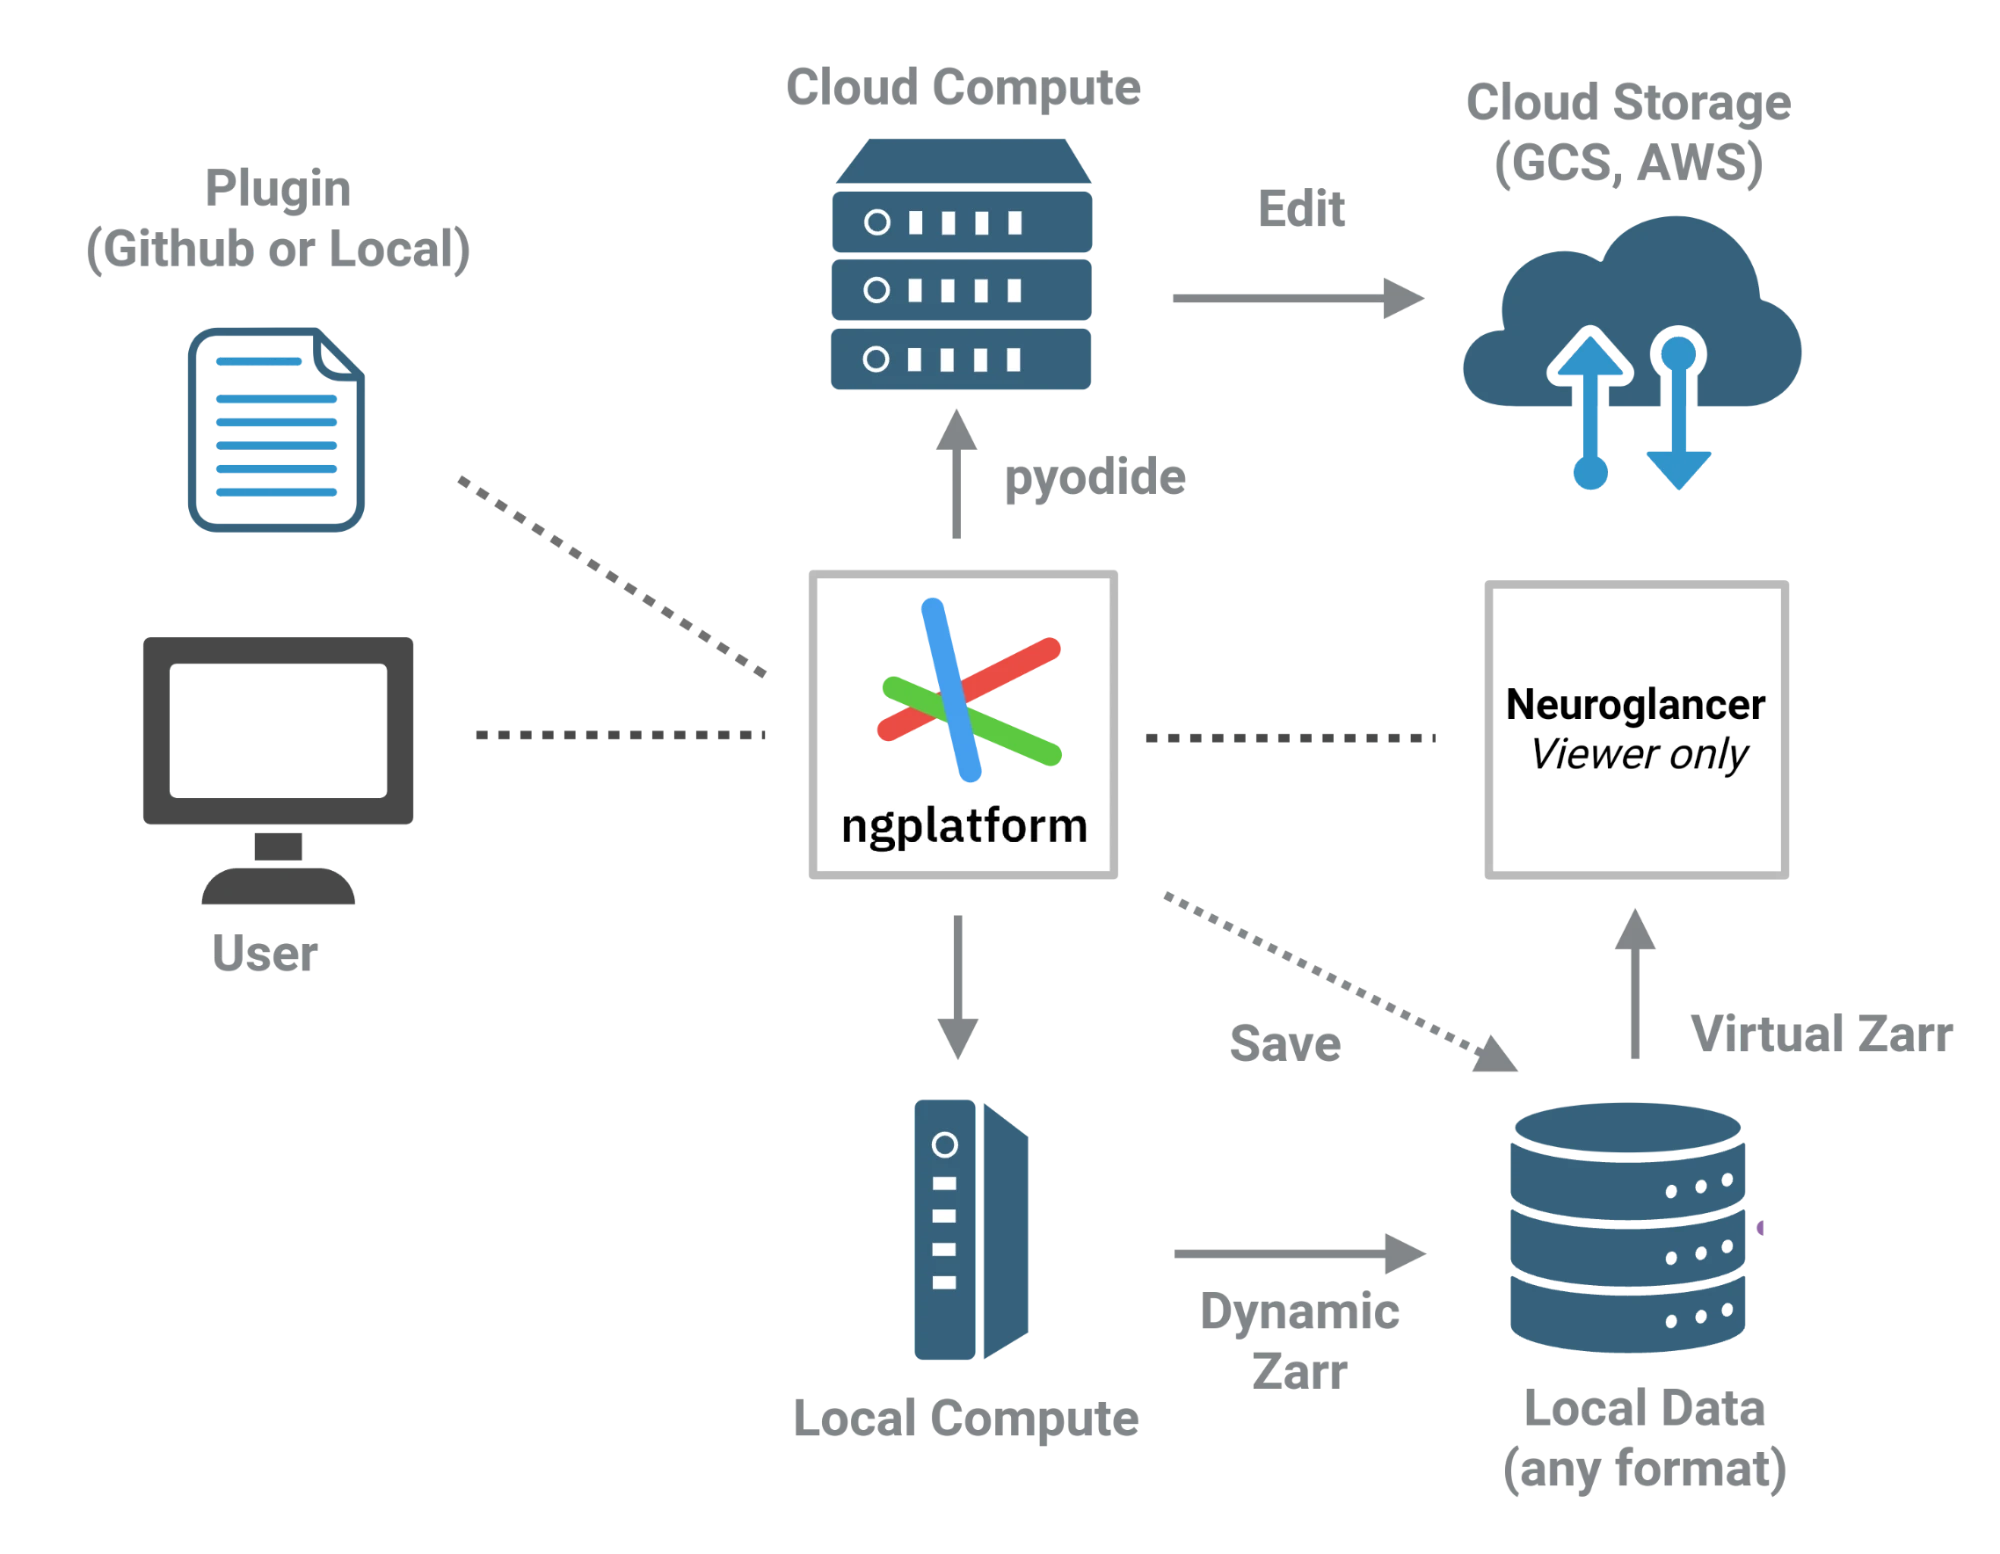
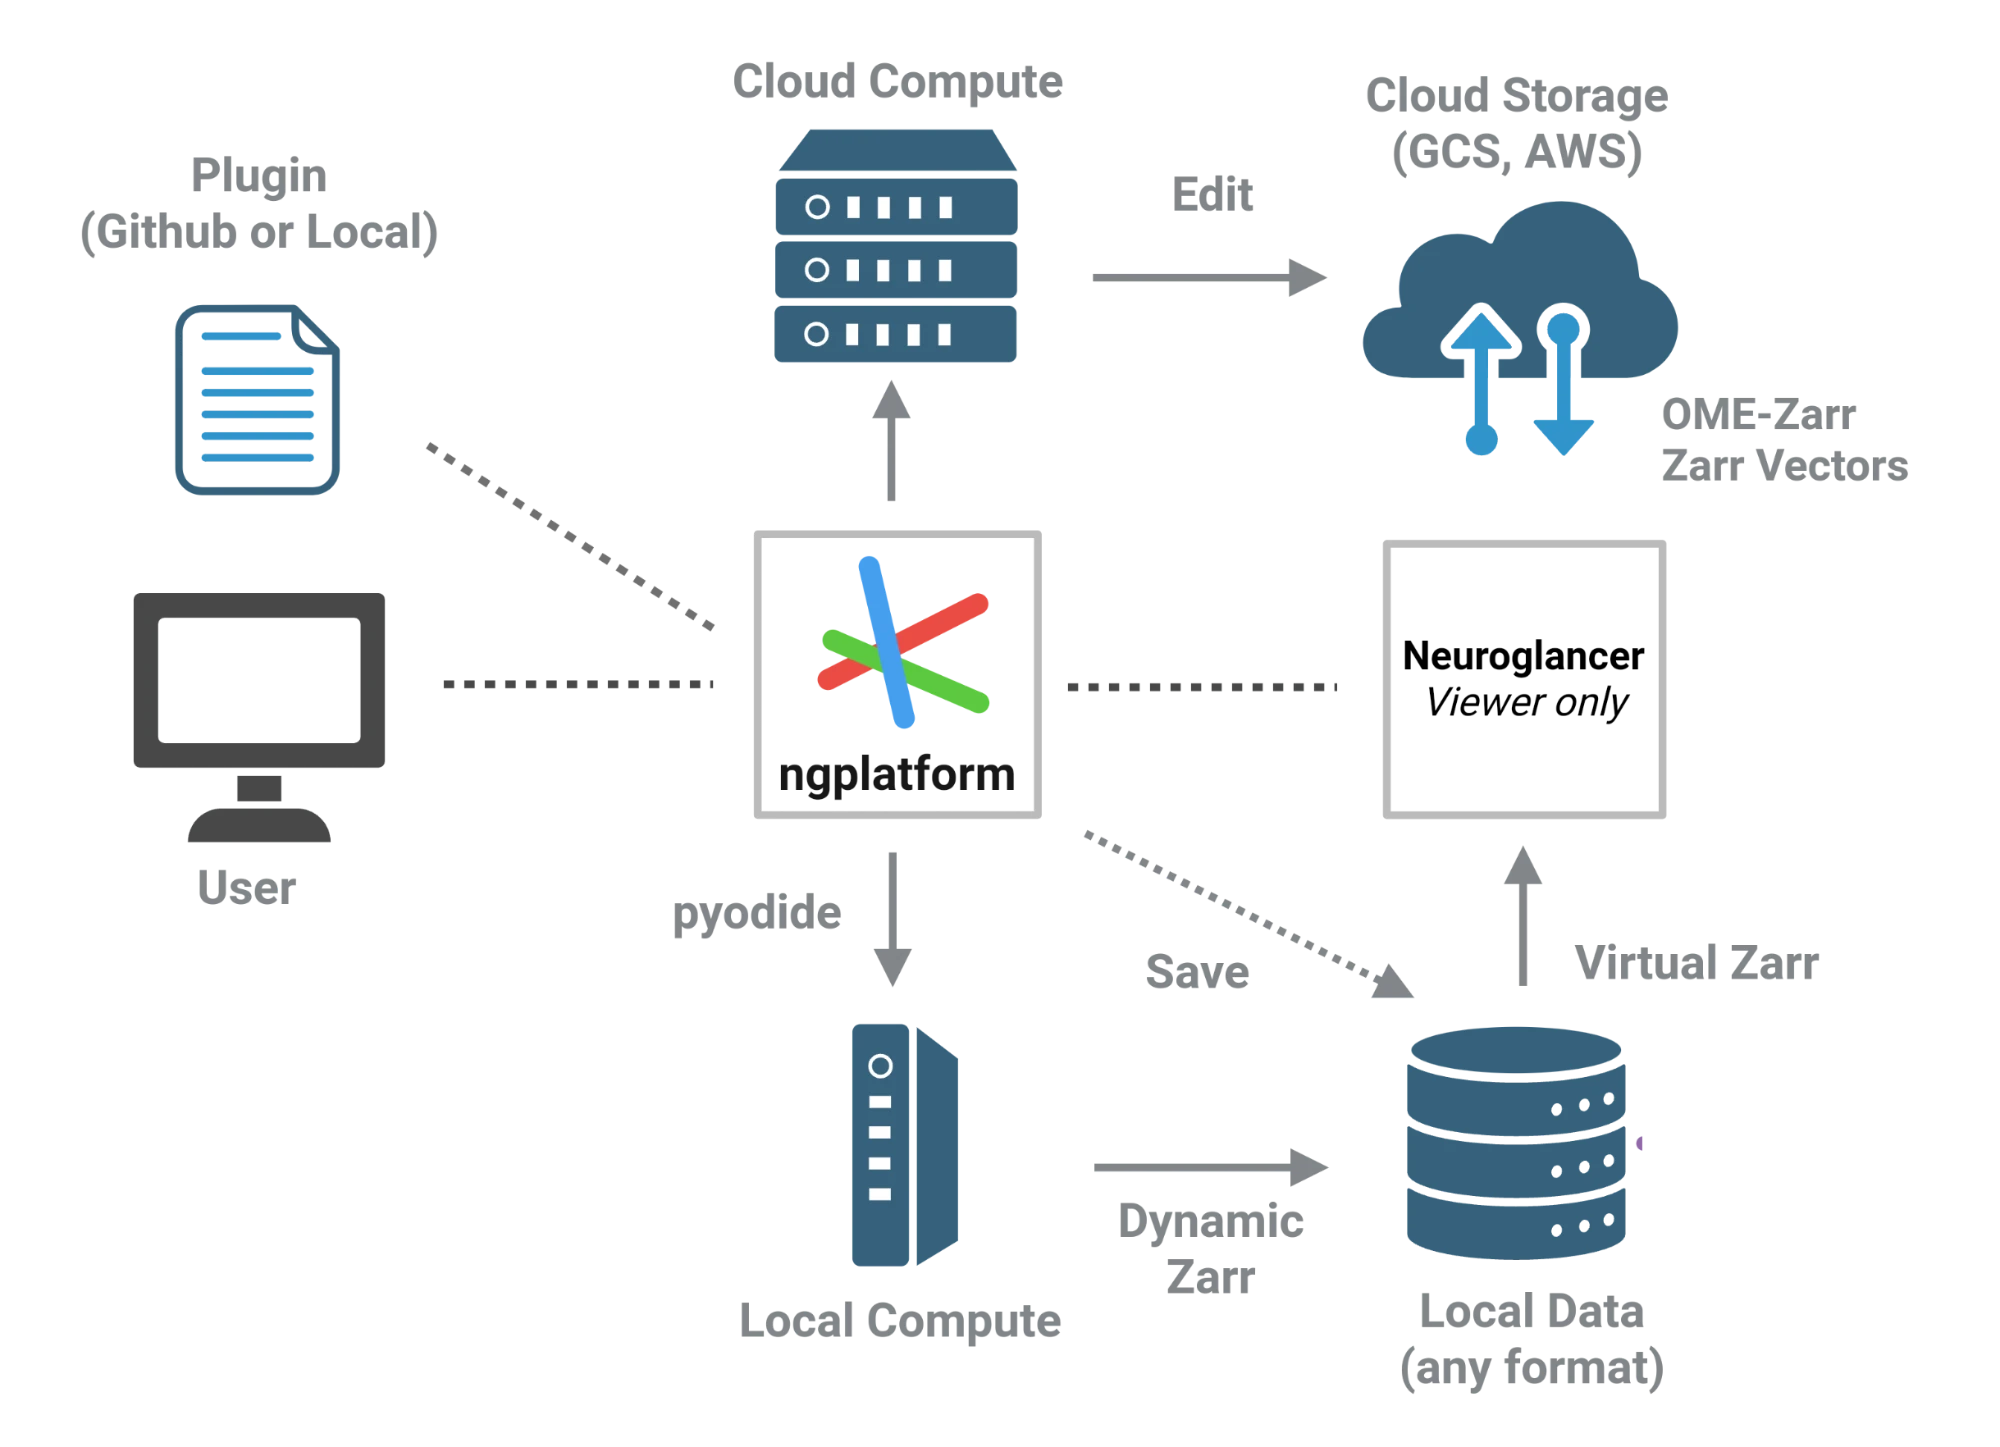
README: the revised figure [skip ci]

diff --git a/README.md b/README.md
@@ -19,7 +19,7 @@ The platform provides:
   overlays, jobs and data formats through it.
 
 <p align="center">
-  <img src="docs/images/architecture.webp" alt="How ngplatform fits together: the user and plugins (from GitHub or this computer) work through ngplatform; it computes locally and in the cloud, saves to local data, and shows data in Neuroglancer, local data as virtual Zarr" width="640" />
+  <img src="docs/images/architecture.webp" alt="How ngplatform fits together: the user and plugins (from GitHub or this computer) work through ngplatform, which shows OME-Zarr and Zarr Vectors from cloud storage in Neuroglancer, computes in the browser (Pyodide) into dynamic Zarr, saves to local data, and serves local data of any format to Neuroglancer as virtual Zarr; cloud compute editing cloud storage is to come" width="640" />
 </p>
 
 **Docs:** https://ngplatform.readthedocs.io/ has the user guide, a page for
